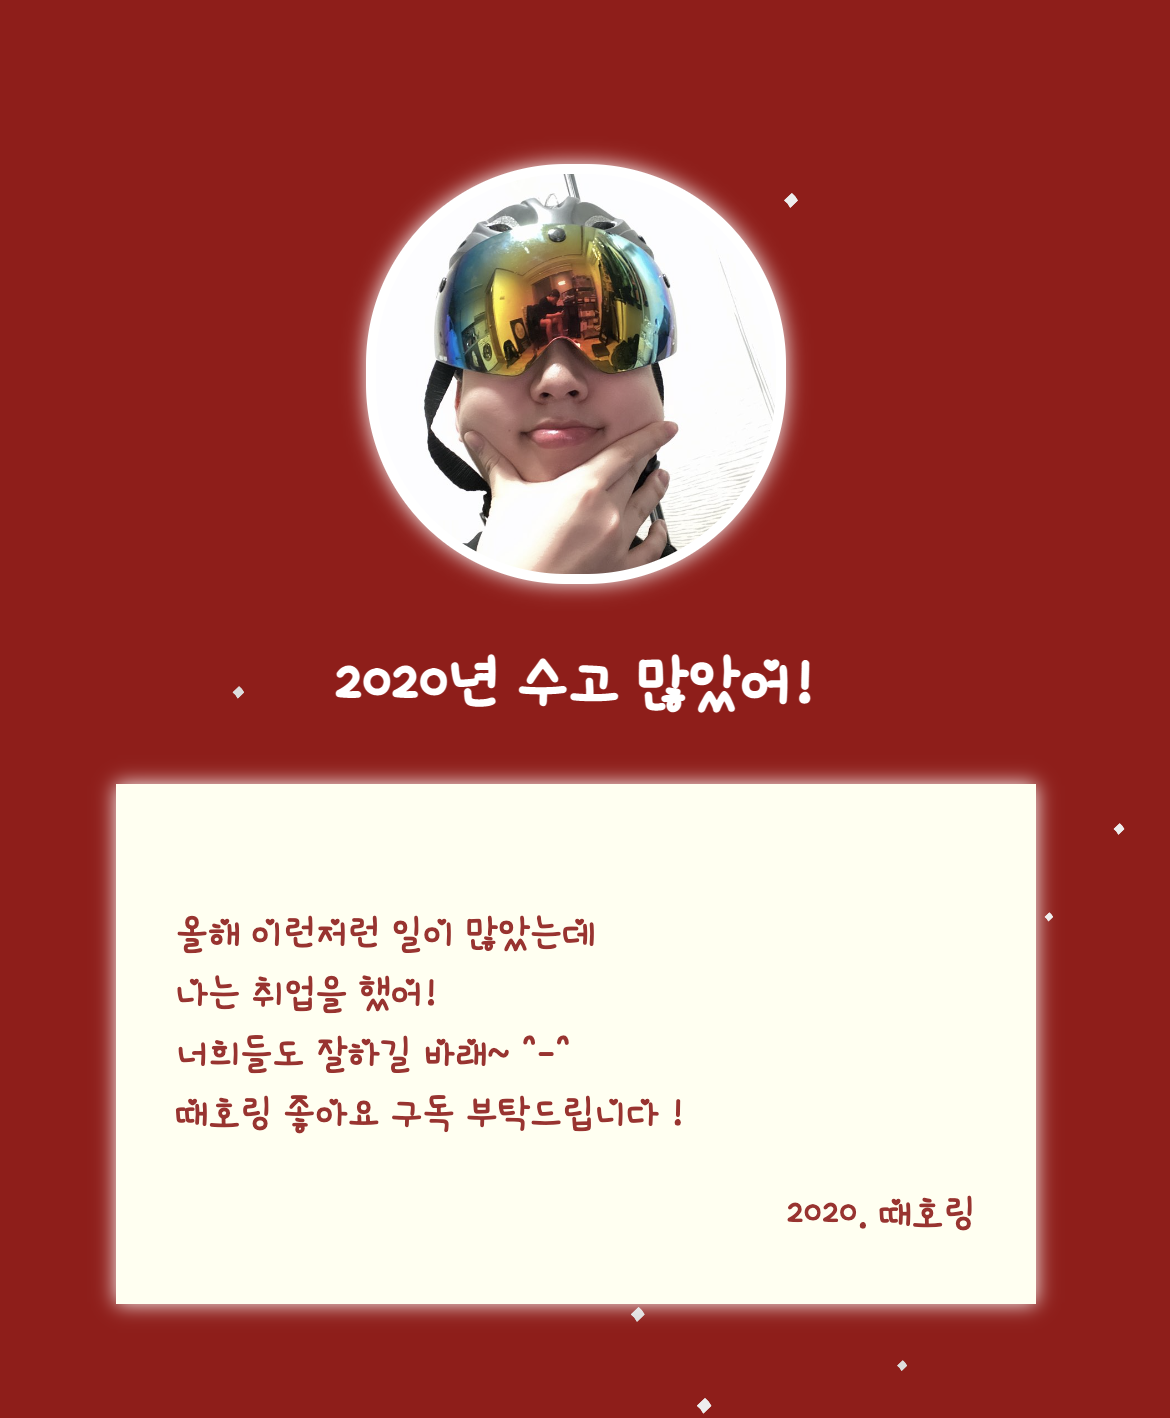
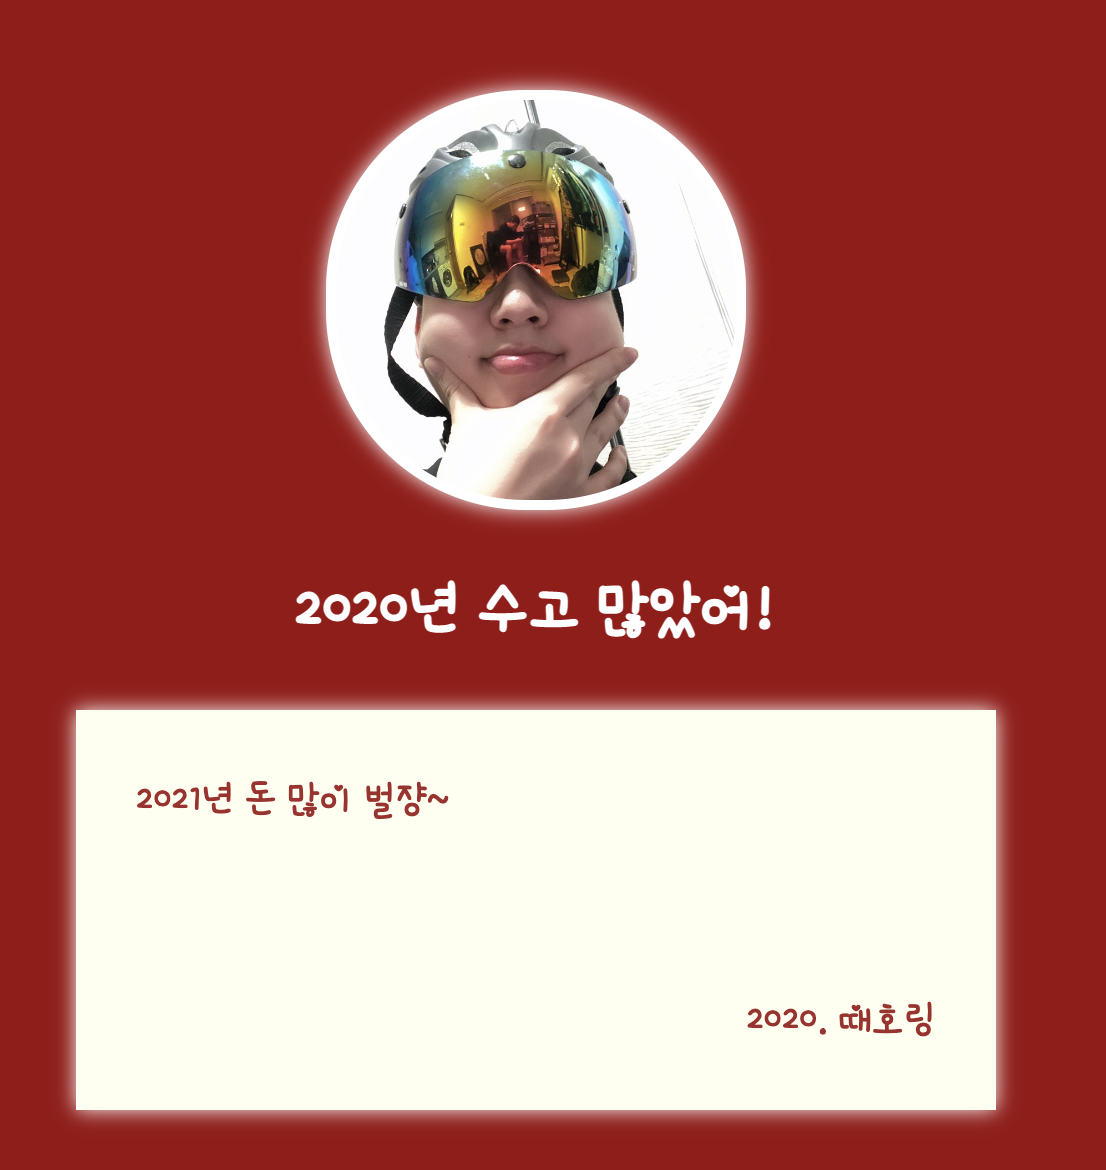
finish

Changed region(s): [[0.0307, 0.0615, 0.9222, 1.0]]

diff --git a/happy.html b/happy.html
@@ -1,29 +1,21 @@
 <!DOCTYPE html>
 <html lang="en">
-
 <head>
     <meta charset="UTF-8">
     <meta name="viewport" content="width=device-width, initial-scale=1.0">
     <title>2020년을 보내며</title>
 
-    <link rel="shortcut icon" href="https://freepngimg.com/download/christmas/26196-6-christmas-stocking.png">
-    
-    <meta property="og:image" content="https://www.christmastreeassociation.org/wp-content/uploads/2016/06/multiple-christmas-trees-in-one-household-800x400.jpg">
-    <meta property="og:title" content="길동이의 카드">
-    <meta property="og:description" content="2020을 추억하며">
+    <meta property="og:description" content="고생했고">
 
-    <script src="https://s3.ap-northeast-2.amazonaws.com/materials.spartacodingclub.kr/xmas/snow.js"></script>
     <link rel="preconnect" href="https://fonts.gstatic.com">
     <link href="https://fonts.googleapis.com/css2?family=Single+Day&display=swap" rel="stylesheet">
     <style>
         * {
             font-family: 'Single Day', cursive;
         }
-
         body {
             background-color: #9b070f;
         }
-
         .envelope {
             width: 200px;
             height: 200px;
@@ -120,7 +112,6 @@
             document.getElementsByClassName("letter-close")[0].style.display = 'none'
             document.getElementsByClassName("letter-open")[0].style.display = 'block'
         }
-
         function go_rtan(){
             alert('너희는 네이버 가거라');
             window.location.href='https://www.naver.com';
@@ -139,11 +130,9 @@
         <div class="rtan" onclick="go_rtan()"></div>
         <h1>2020년 수고 많았어!</h1>
         <div class="messagebox">
+             2021년 돈 많이 벌쟝~<br />
              <br />
-            올해 이런저런 일이 많았는데 <br />
-            나는 취업을 했어!<br />
-            너희들도 잘하길 바래~ ^-^<br />
-            때호링 좋아요 구독 부탁드립니다 ! <br />
+            <br />
             <p class="from">2020. 때호링</p>
         </div>
     </div>
